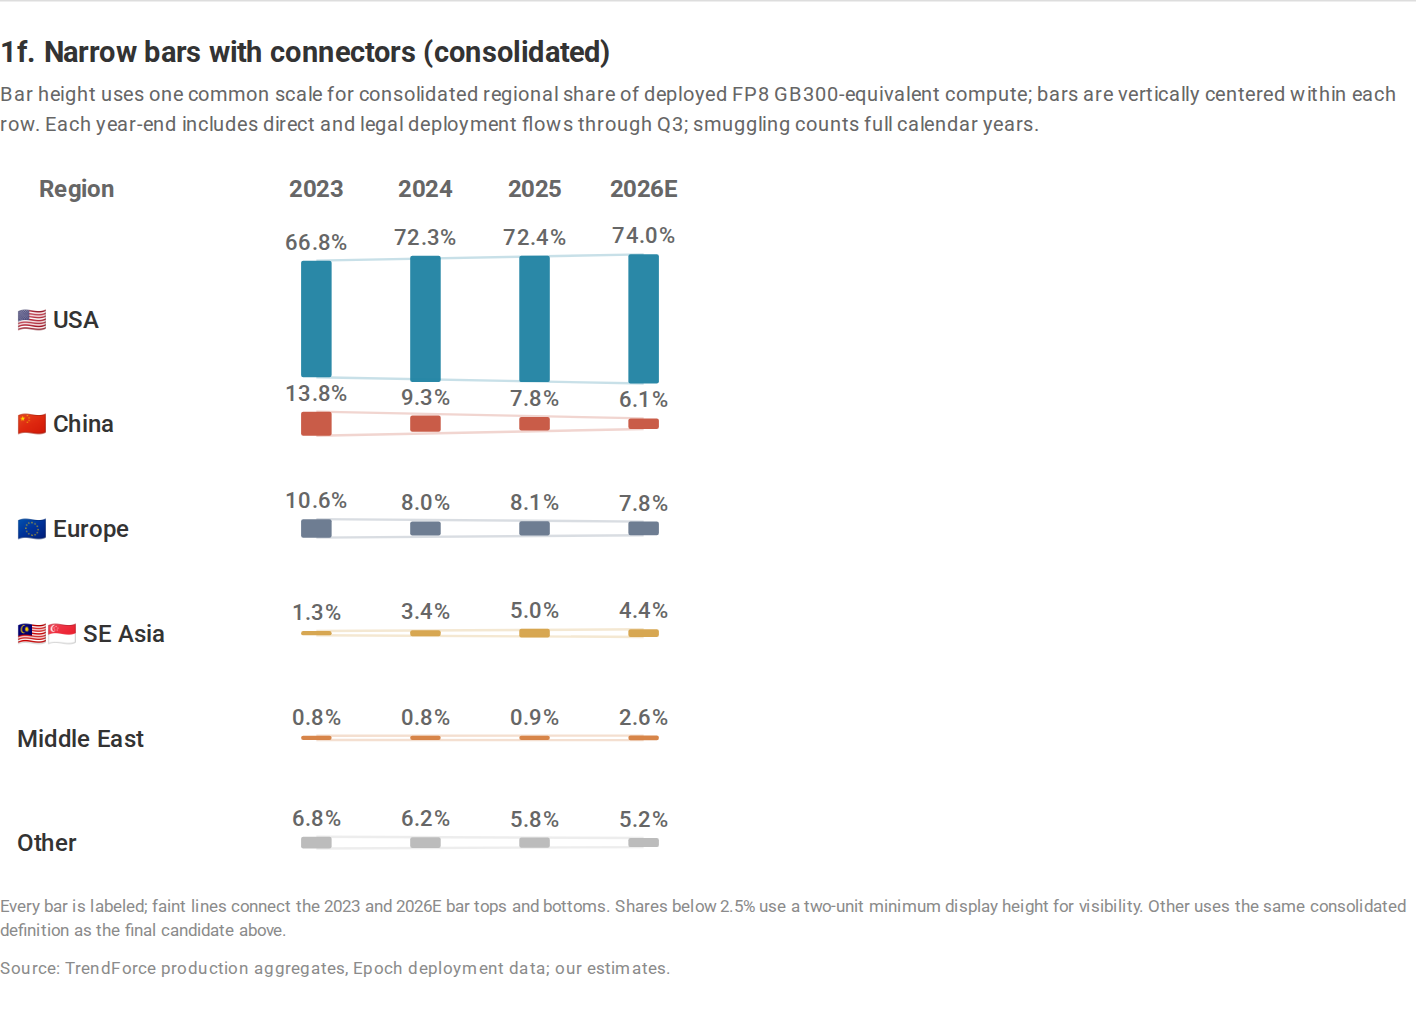
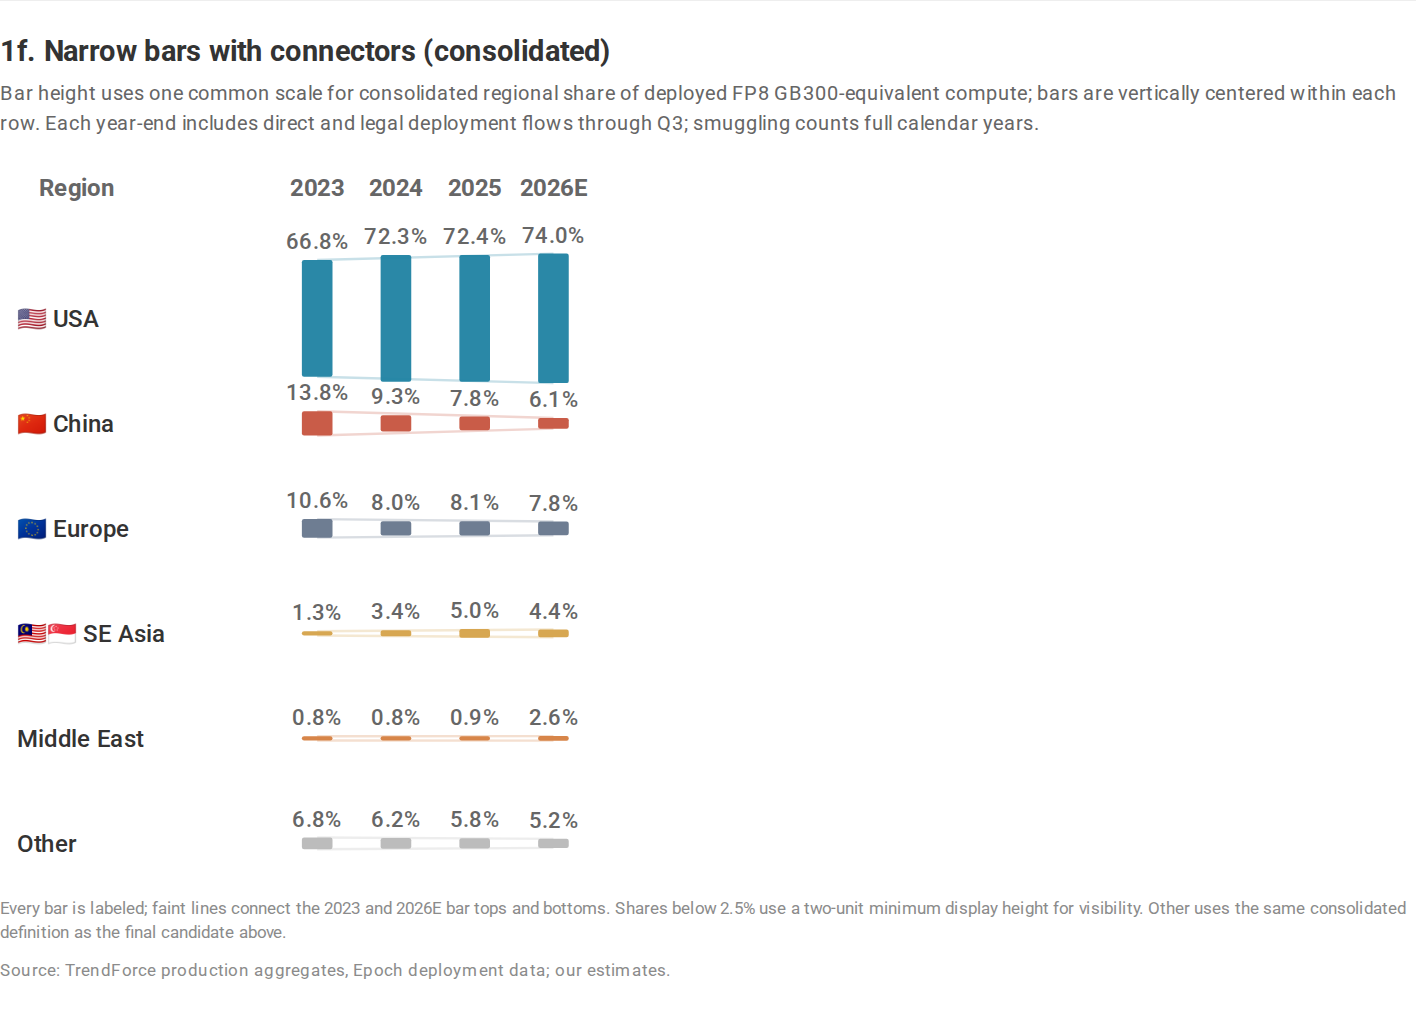
Tighten variant 1f year spacing

diff --git a/docs/compute-over-time.html b/docs/compute-over-time.html
@@ -70,7 +70,7 @@
   .final-candidate { padding: 0 0 32px; }
   .final-candidate .chart { max-width: 600px; }
   .connector-candidate { padding: 22px 0 24px; border-top: 1px solid var(--border); }
-  .connector-candidate .chart { max-width: 480px; }
+  .connector-candidate .chart { max-width: 420px; }
   .bar-family > h2 { margin-bottom: 16px; font-size: 21px; }
   .bar-prototype { padding: 24px 0 28px; border-top: 1px solid var(--border); }
   .bar-prototype:first-of-type { padding-top: 0; border-top: 0; }
@@ -564,9 +564,9 @@
 
   function drawNarrowBarConnectors() {
     const svg = svgFor("chart-final-1f", 334, "Six consolidated regional AI compute share trends shown as slim centered annual bars with lines tracing their top and bottom edges, 2023 to 2026");
-    svg.setAttribute("viewBox", "0 0 330 334");
+    svg.setAttribute("viewBox", "0 0 288 334");
     const consolidated = finalConsolidatedShares();
-    const centers = [145, 195, 245, 295];
+    const centers = [145, 181, 217, 253];
     const rowStart = 74;
     const rowGap = 48;
     const narrowBarWidth = 14;

diff --git a/runs/ts-v1/chart-prototypes/build_log.md b/runs/ts-v1/chart-prototypes/build_log.md
@@ -124,3 +124,10 @@
 - Local browser QA rendered all twelve SVG charts without console or page errors, found no horizontal overflow at 390 pixels, and refreshed `variant-1f.png`. Visual inspection confirmed twelve total connector lines, correct middle-bar occlusion, and no clipping or overlap.
 - Published in commit `a89798a` (`Connect first and last bars in variant 1f`) and pushed to `main`.
 - GitHub Pages updated on the third polling attempt. Live browser QA returned HTTP 200 and confirmed twelve connector lines spanning x=145 to x=295, correct below-bar SVG ordering for every region, 24 bars, 24 labels, zero browser errors, and the noindex directive.
+
+## Consolidated horizontal-spacing revision (2026-08-20)
+
+- Revised variant 1f in place by reducing year-center spacing from 50 to 36 view-box units. The four-year span contracts from 150 to 108 units (28%), and the gap between 14-unit bars falls from 36 to 22 units (39%).
+- Tightened the view box from 330 to 288 units and the display cap from 480 to 420 pixels. Those proportional changes keep rendered bar width effectively unchanged while narrowing the chart and steepening the 2023-to-2026E envelopes.
+- Moved the year headers and percentage labels with their bars. Vertical spacing, centered alignment, row order, bar heights, connectors, colors, flags, data, and all other page content remain unchanged.
+- Local browser QA rendered all twelve SVG charts without console or page errors, found no horizontal overflow at 390 pixels, and refreshed `variant-1f.png`. Visual inspection confirmed readable headers and labels, unchanged bar width, and more salient trend slopes.
